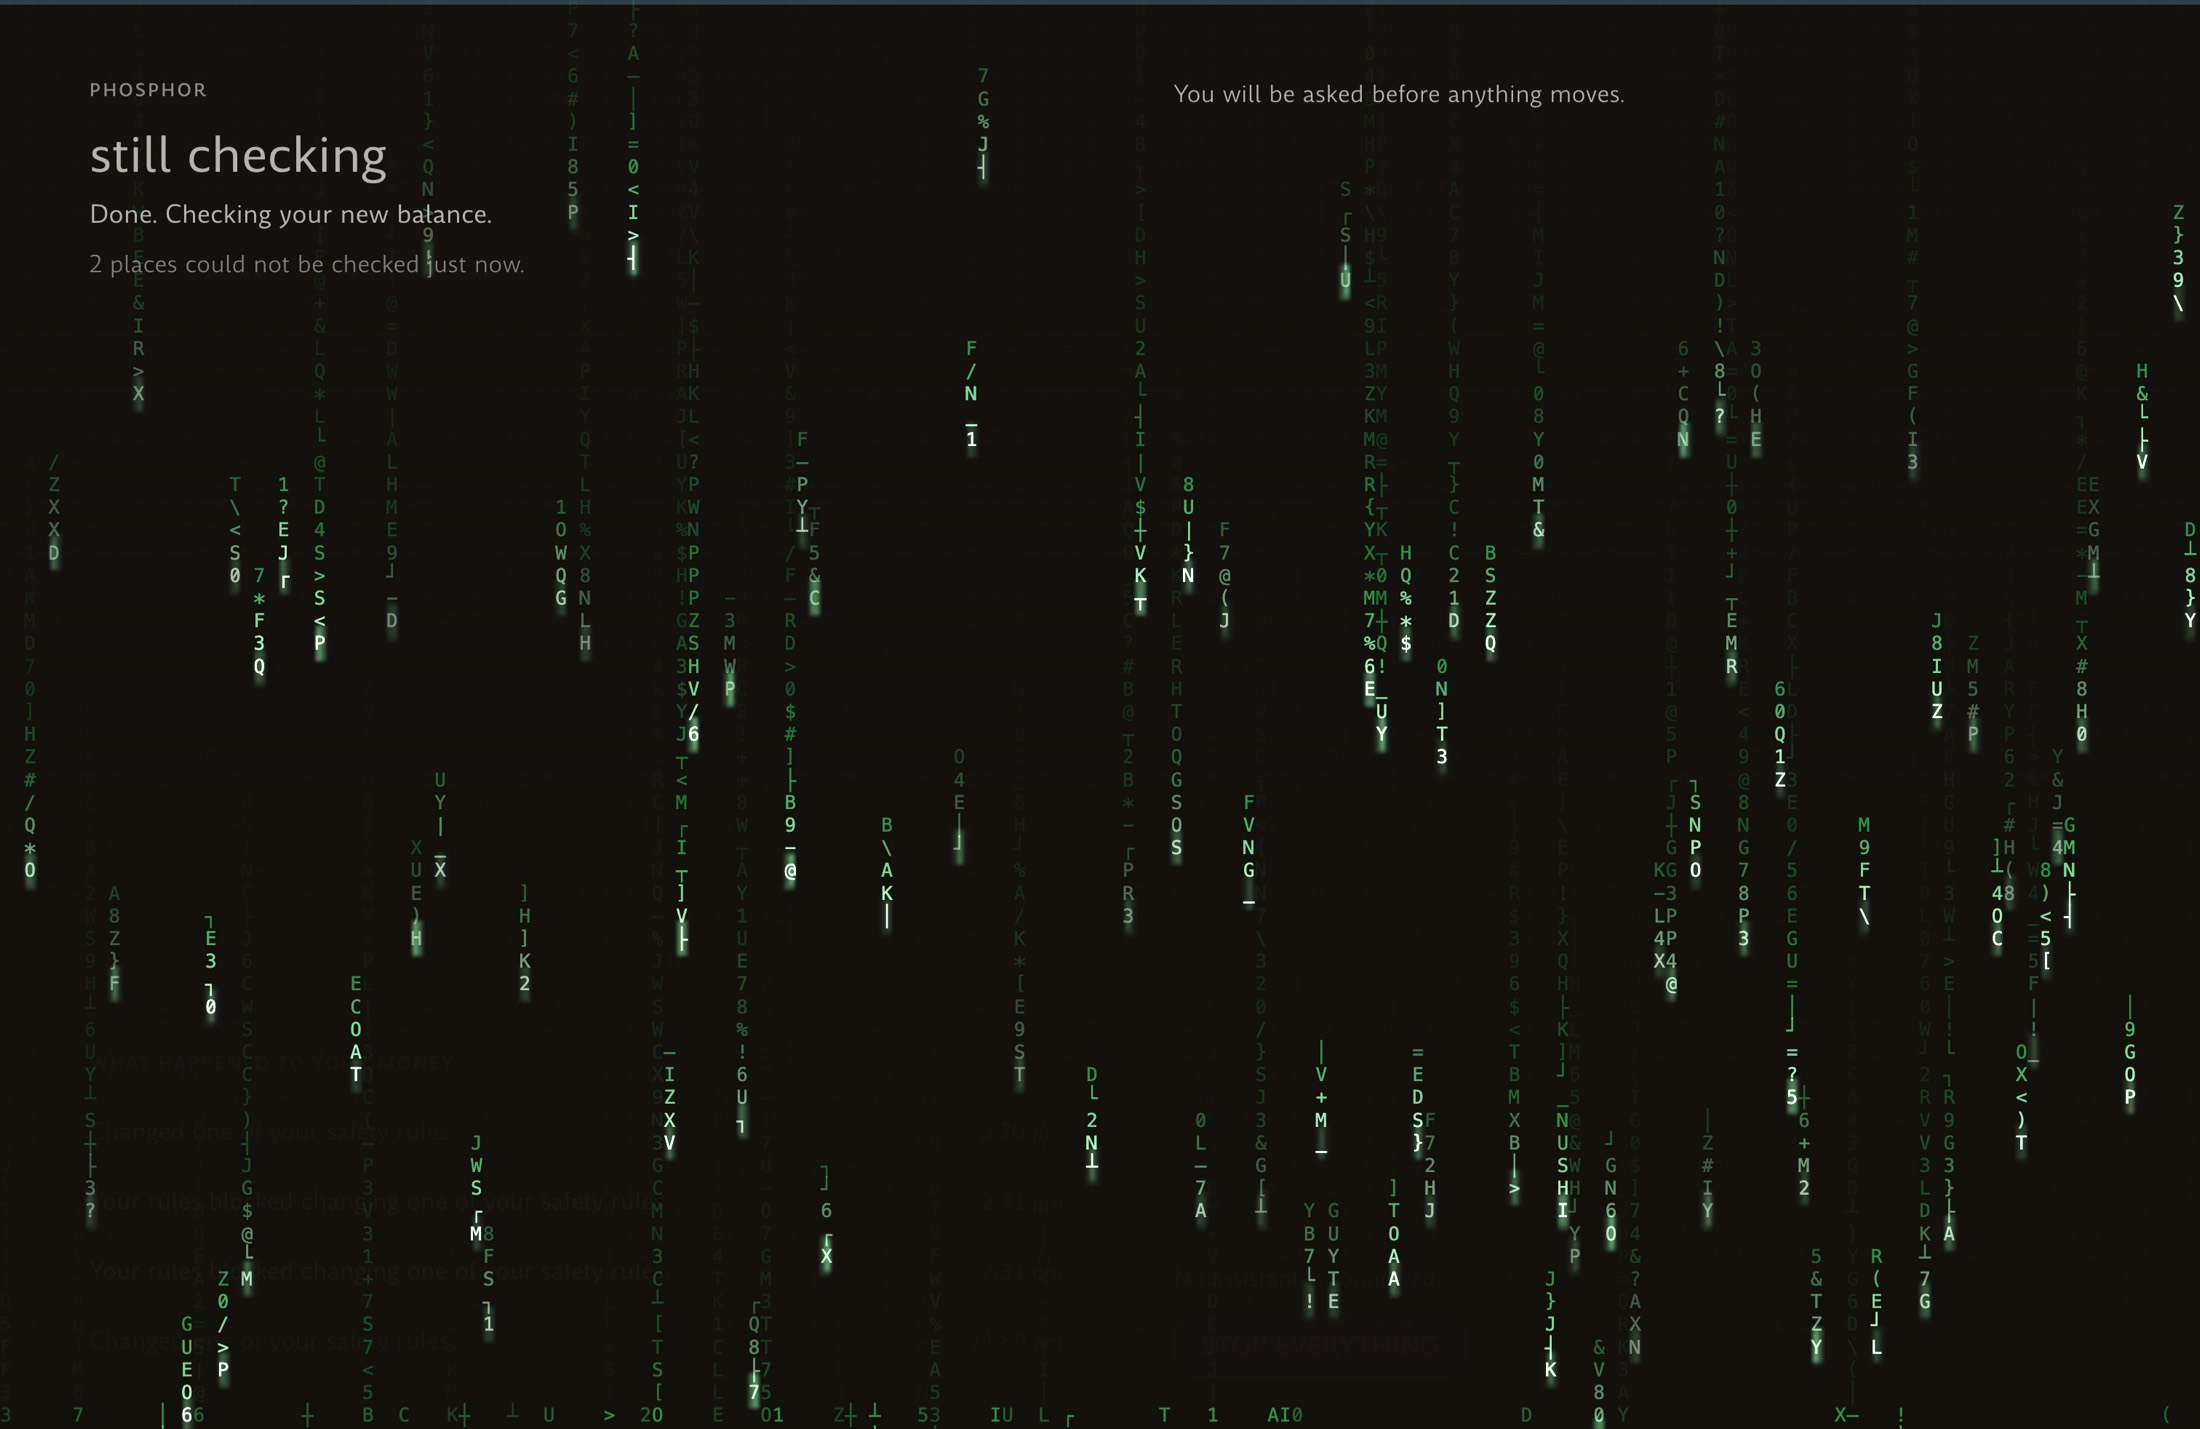
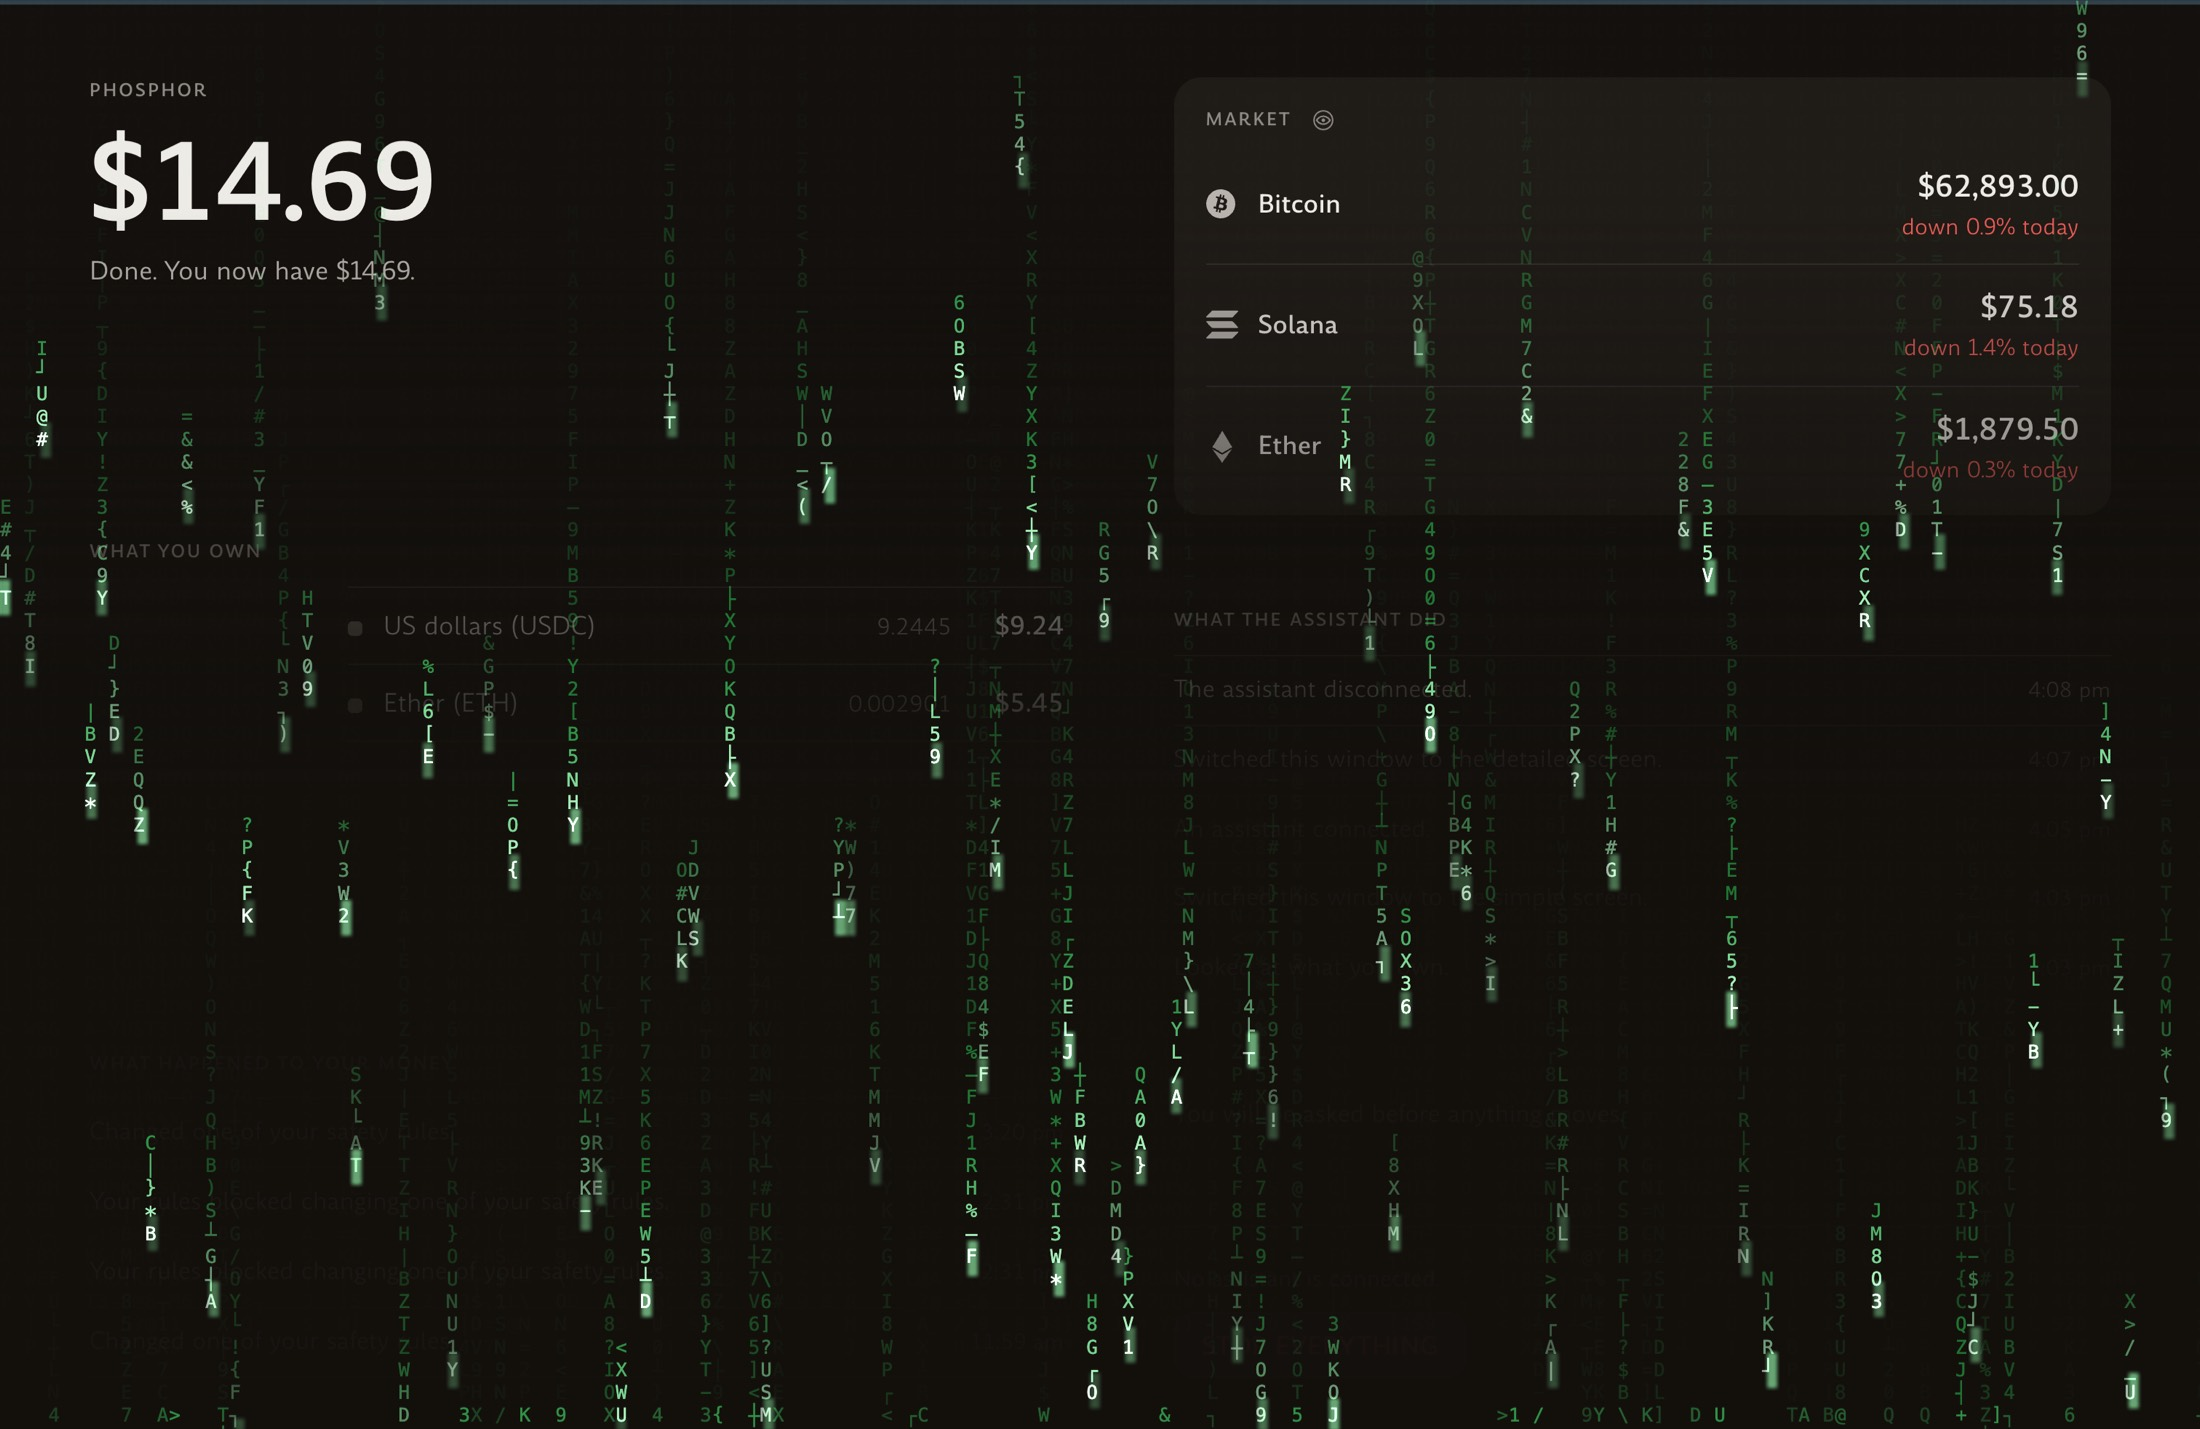
A character belongs to its row, not to the frame
Karim, on the pass shipped an hour ago: "there is a tiny bit of flickering that I don't
like, but the quality is much better". The flicker was mine and it was new, so this is the
cause rather than a damping.

Re-rendering the leading rows of every column on every frame is right: it is the only way
to draw a ramp over a head that is moving. Rolling a NEW character into every one of those
cells on every frame is not, and that is what the last commit did. About 675 glyphs were
changing 60 times a second across the screen. That is a boil, not a shimmer. The first
version of this effect never did it, because it wrote each glyph into the tail buffer once
and never touched it again; the ramp is what cost that property, and the ramp is worth
keeping.

Each column now carries a small ring of the characters standing on the rows its head has
most recently crossed. A row is given a character when the head lands on it and keeps it
from then on, through the hot zone and into the tail. Only the colour and the alpha change
from frame to frame. One row per column takes a new character with 8% odds a frame, which
is the shimmer, and it is the whole of it: about ten glyphs a frame across the screen
rather than every one of them.

The tail deposit reads the same ring rather than rolling again, which was a second change
on the same cell, at the hot zone's own edge, every time a glyph froze.

The glow marks are the other half. At a seventh scale a mark is about a pixel and a half
[…]

diff --git a/ui/transition.js b/ui/transition.js
@@ -96,17 +96,39 @@
   var MAX_DPR = 2; // a 3rd or 4th device pixel buys nothing on glyphs this small and costs area
   var MIN_SPEED = 150; // rows per second, before the depth tier scales it
   var MAX_SPEED = 340;
-  var MAX_FILL = 8; // most rows one column may deposit in a frame, however long that frame was
+  /* Most rows one column may deposit in a frame, however long that frame was. Capped by what
+     the ring can still remember, so a stalled frame never deposits a character the screen
+     did not show. */
+  var MAX_FILL = 6;
 
   /* Frames an arriving run is stepped through before it is first drawn, so it lands in the
      state the leaving page's run was in rather than starting from an empty screen. One cover
      at 60fps, which is what the other page actually ran. */
   var PRIME_FRAMES = 30;
 
-  /* The leading rows of a column, redrawn from scratch every frame. This is where the head
-     ramp and the shimmer both come from, and it is bounded because everything behind it is
-     handed to the tail buffer and never touched again. */
+  /* The leading rows of a column, re-rendered every frame so the ramp can be drawn. This is
+     bounded because everything behind it is handed to the tail buffer and never touched
+     again. */
   var HOT_ROWS = 5;
+
+  /* A character belongs to the ROW it was drawn on, not to the frame. Each column keeps the
+     glyphs for the rows still inside its hot zone, and the hot pass renders those rather
+     than rolling new ones.
+
+     Karim, on the first cut of this second pass: "there is a tiny bit of flickering that I
+     don't like". It was mine and it was new. Re-rendering the hot zone every frame is right,
+     but rolling a fresh character into every one of those cells every frame is not: about
+     675 glyphs were changing 60 times a second, which is a boil rather than a shimmer. The
+     first pass never did it because it wrote each glyph into the tail buffer once and never
+     touched it again. The ring keeps that property and still lets the ramp be redrawn.
+
+     Long enough to hold every row from the head down to the one being deposited, plus one. */
+  var RING = HOT_ROWS + 2;
+
+  /* Odds per column per frame that one row behind the head takes a new character. This is
+     the shimmer, and it is the whole of it: roughly ten glyphs a frame across the screen
+     rather than every one of them. */
+  var SHIMMER = 0.08;
 
   /* Three depth tiers: speed scale, brightness scale, and how many of the slots get it.
      Near columns are faster and brighter, which is the whole of the parallax here. */
@@ -401,14 +423,21 @@
         gutterRun = 0;
       }
 
+      var chars = new Array(RING);
+      for (var c = 0; c < RING; c++) chars[c] = glyph();
+
       var col = {
         y: y,
         depth: d,
         speed: (MIN_SPEED + Math.random() * (MAX_SPEED - MIN_SPEED)) * DEPTH[d].speed,
         row: Math.floor(y),
         // The last row handed to the tail buffer. Everything between here and the head is
-        // the hot zone and is redrawn from scratch every frame.
+        // the hot zone, re-rendered every frame so the ramp can be drawn over it.
         deposited: Math.floor(y) - HOT_ROWS,
+        // The characters standing on the rows the head has most recently crossed, and the
+        // last row that was given one.
+        chars: chars,
+        filled: Math.floor(y) - 1,
       };
       cols[i] = col;
       byDepth[d].push(i);
@@ -451,18 +480,29 @@
 
     /* The glow buffer is a sixth of the device surface and is drawn in the same CSS pixels
        as everything else, so the frame loop never converts a coordinate. */
-    var gw = Math.max(1, Math.round(pw * GLOW_SCALE));
-    var gh = Math.max(1, Math.round(ph * GLOW_SCALE));
-    run.glow.width = gw;
-    run.glow.height = gh;
-    var gk = run.dpr * GLOW_SCALE;
-    run.gctx.setTransform(gk, 0, 0, gk, 0, 0);
+    run.glow.width = Math.max(1, Math.round(pw * GLOW_SCALE));
+    run.glow.height = Math.max(1, Math.round(ph * GLOW_SCALE));
+    /* Identity, deliberately, unlike the other two contexts. A mark this small at a
+       fractional offset is antialiased differently on every row it steps through, and its
+       brightness pulses with the coverage. The marks are rounded to whole buffer pixels
+       instead, which is the second half of the flicker Karim saw and the one on the
+       brightest thing on the screen. */
+    run.gctx.setTransform(1, 0, 0, 1, 0, 0);
+    run.gk = run.dpr * GLOW_SCALE;
 
     buildColumns(run);
   }
 
   function glyph() {
     return GLYPHS.charAt((Math.random() * GLYPHS.length) | 0);
+  }
+
+  /* The ring is indexed by screen row, so a character stays where it was put as the head
+     moves off it. Rows go negative above the top edge, which is why the remainder is folded
+     rather than used raw. */
+  function ringIdx(row) {
+    var i = row % RING;
+    return i < 0 ? i + RING : i;
   }
 
   /* Advance every column, hand whatever has fallen out of the hot zone to the tail buffer,
@@ -499,12 +539,26 @@
           col.y = -Math.random() * 14;
           col.row = Math.floor(col.y);
           col.deposited = col.row - HOT_ROWS;
+          col.filled = col.row - 1;
           col.depth = pickDepth();
           col.speed = (MIN_SPEED + Math.random() * (MAX_SPEED - MIN_SPEED)) * DEPTH[col.depth].speed;
         } else {
           col.y = rows + 1; // parked off the bottom, drawn no more
           col.row = rows + 1;
         }
+      }
+
+      /* One new character per row the head has just landed on, and none for the rows it left
+         behind. That is the whole of the flicker fix: what is on a row was decided when the
+         head reached it. */
+      var fillFrom = col.filled + 1;
+      if (col.row - fillFrom >= RING) fillFrom = col.row - RING + 1;
+      for (var fr = fillFrom; fr <= col.row; fr++) col.chars[ringIdx(fr)] = glyph();
+      col.filled = col.row;
+
+      // The shimmer, one row at a time and never the head, which is new anyway.
+      if (HOT_ROWS > 1 && Math.random() < SHIMMER) {
+        col.chars[ringIdx(col.row - 1 - ((Math.random() * (HOT_ROWS - 1)) | 0))] = glyph();
       }
     }
 
@@ -526,7 +580,9 @@
         var first = col.deposited + 1;
         if (target - first >= MAX_FILL) first = target - MAX_FILL + 1;
         for (var r = first; r <= target; r++) {
-          if (r >= 0 && r < rows) ctx.fillText(glyph(), ids[n] * run.cellW, r * run.rowH);
+          // The character the screen already showed on that row, not a new one. A glyph that
+          // changes as it freezes is a flicker at the hot zone's own edge.
+          if (r >= 0 && r < rows) ctx.fillText(col.chars[ringIdx(r)], ids[n] * run.cellW, r * run.rowH);
         }
         col.deposited = target;
       }
@@ -573,10 +629,13 @@
     ctx.globalCompositeOperation = 'source-over';
   }
 
-  /* The leading rows of every column, re-rolled from scratch every frame. This is three
-     things at once and none of them can be had from the tail buffer: the ramp that makes the
-     head findable, the shimmer that makes the front crawl, and the heads the bloom is built
-     from. It is drawn straight onto the visible canvas, so nothing here accumulates. */
+  /* The leading rows of every column, re-rendered every frame. Two things here cannot be had
+     from the tail buffer: the ramp that makes the head findable, and the heads the bloom is
+     built from. It is drawn straight onto the visible canvas, so nothing accumulates.
+
+     The CHARACTERS come from each column's ring and are not re-rolled here. Only the colour
+     and the alpha change from frame to frame, which is the difference between a fall that
+     shimmers and one that boils. */
   function hot(run, p) {
     var ctx = run.ctx;
     var gctx = run.gctx;
@@ -588,7 +647,7 @@
     var col;
     var row;
 
-    gctx.clearRect(0, 0, run.w, run.h);
+    gctx.clearRect(0, 0, run.glow.width, run.glow.height);
     gctx.fillStyle = run.colours.glow;
 
     ctx.setTransform(run.dpr, 0, 0, run.dpr, 0, 0);
@@ -605,7 +664,7 @@
           col = cols[i];
           row = col.row - k;
           if (row < 0 || row >= rows) continue;
-          ctx.fillText(glyph(), i * cellW, row * rowH);
+          ctx.fillText(col.chars[ringIdx(row)], i * cellW, row * rowH);
         }
       }
     }
@@ -614,15 +673,16 @@
        character is barely a pixel across and a mark of the same size is the same smear once
        it has been scaled back up. Narrow, and a row and a half tall, so the glow sits on the
        tip and leans the way the column is going rather than washing the whole hot zone. */
+    var gk = run.gk;
     var gx = cellW * (1 - GLOW_W) * 0.5;
-    var gw = cellW * GLOW_W;
-    var gh = rowH * GLOW_H;
+    var gw = Math.max(2, Math.round(cellW * GLOW_W * gk));
+    var gh = Math.max(3, Math.round(rowH * GLOW_H * gk));
     for (i = 0; i < cols.length; i++) {
       col = cols[i];
       row = col.row;
       if (row < 0 || row >= rows) continue;
       gctx.globalAlpha = DEPTH[col.depth].light;
-      gctx.fillRect(i * cellW + gx, (row - 0.35) * rowH, gw, gh);
+      gctx.fillRect(Math.round((i * cellW + gx) * gk), Math.round((row - 0.35) * rowH * gk), gw, gh);
     }
     gctx.globalAlpha = 1;
 
